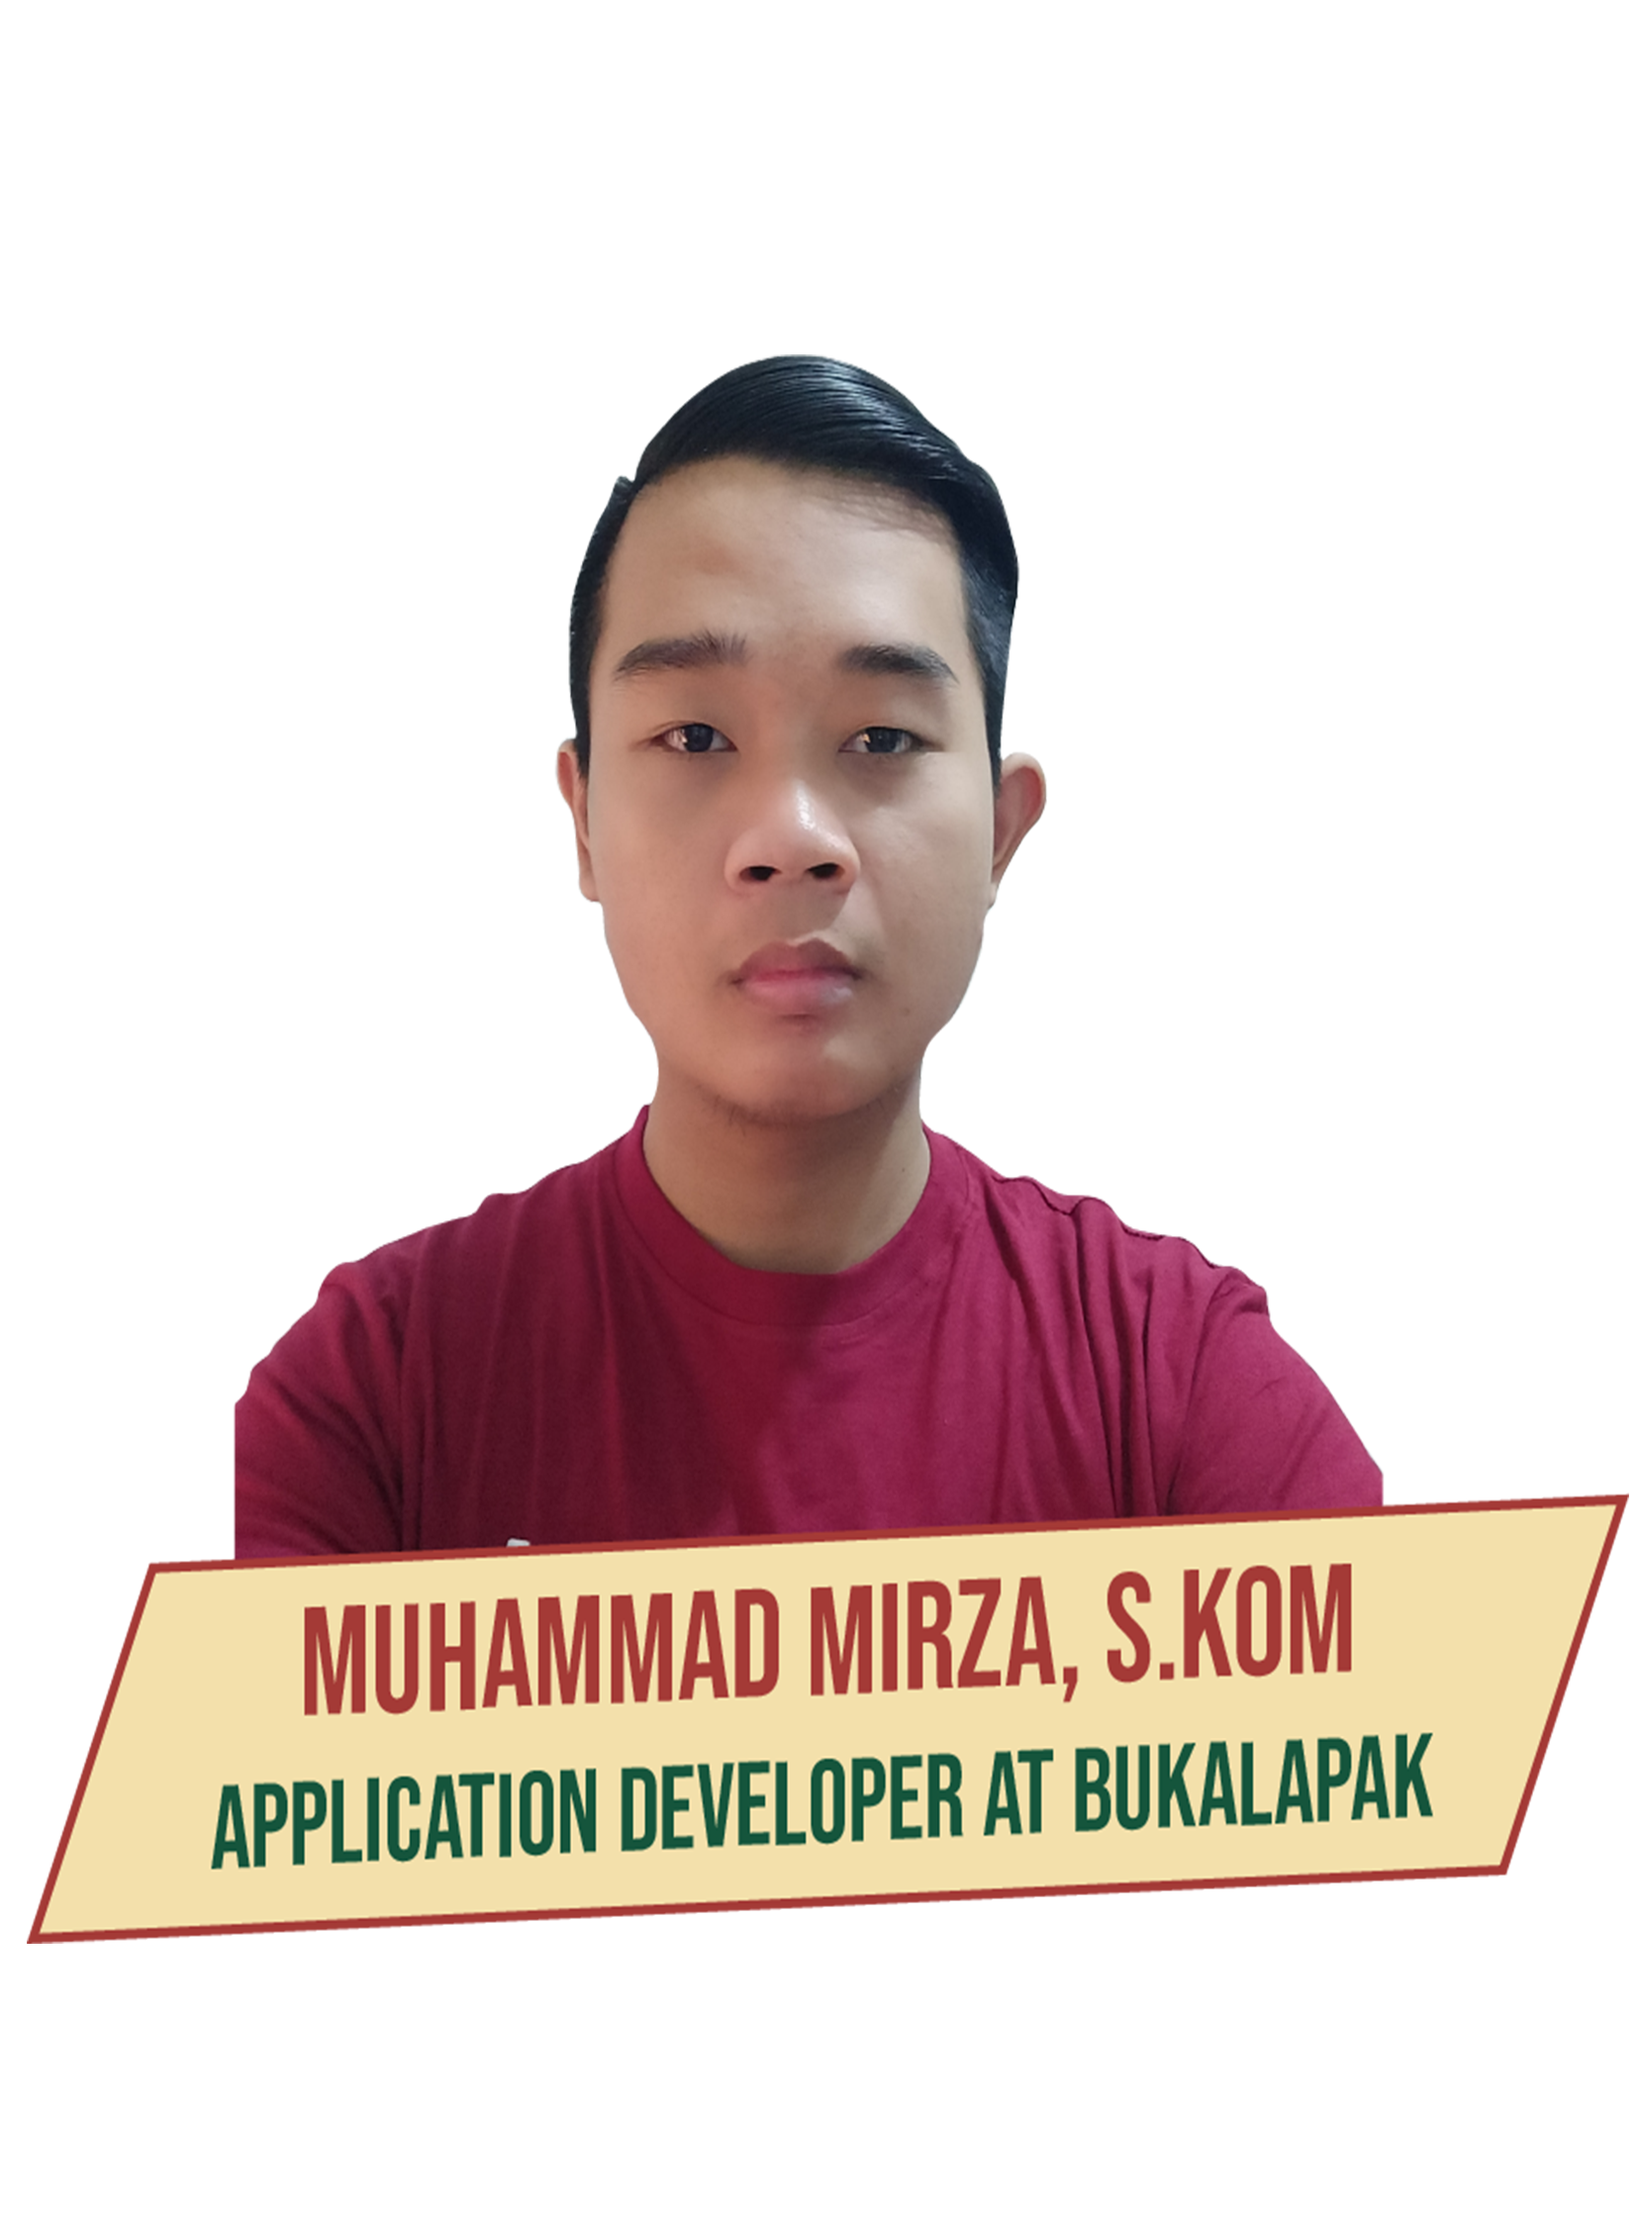
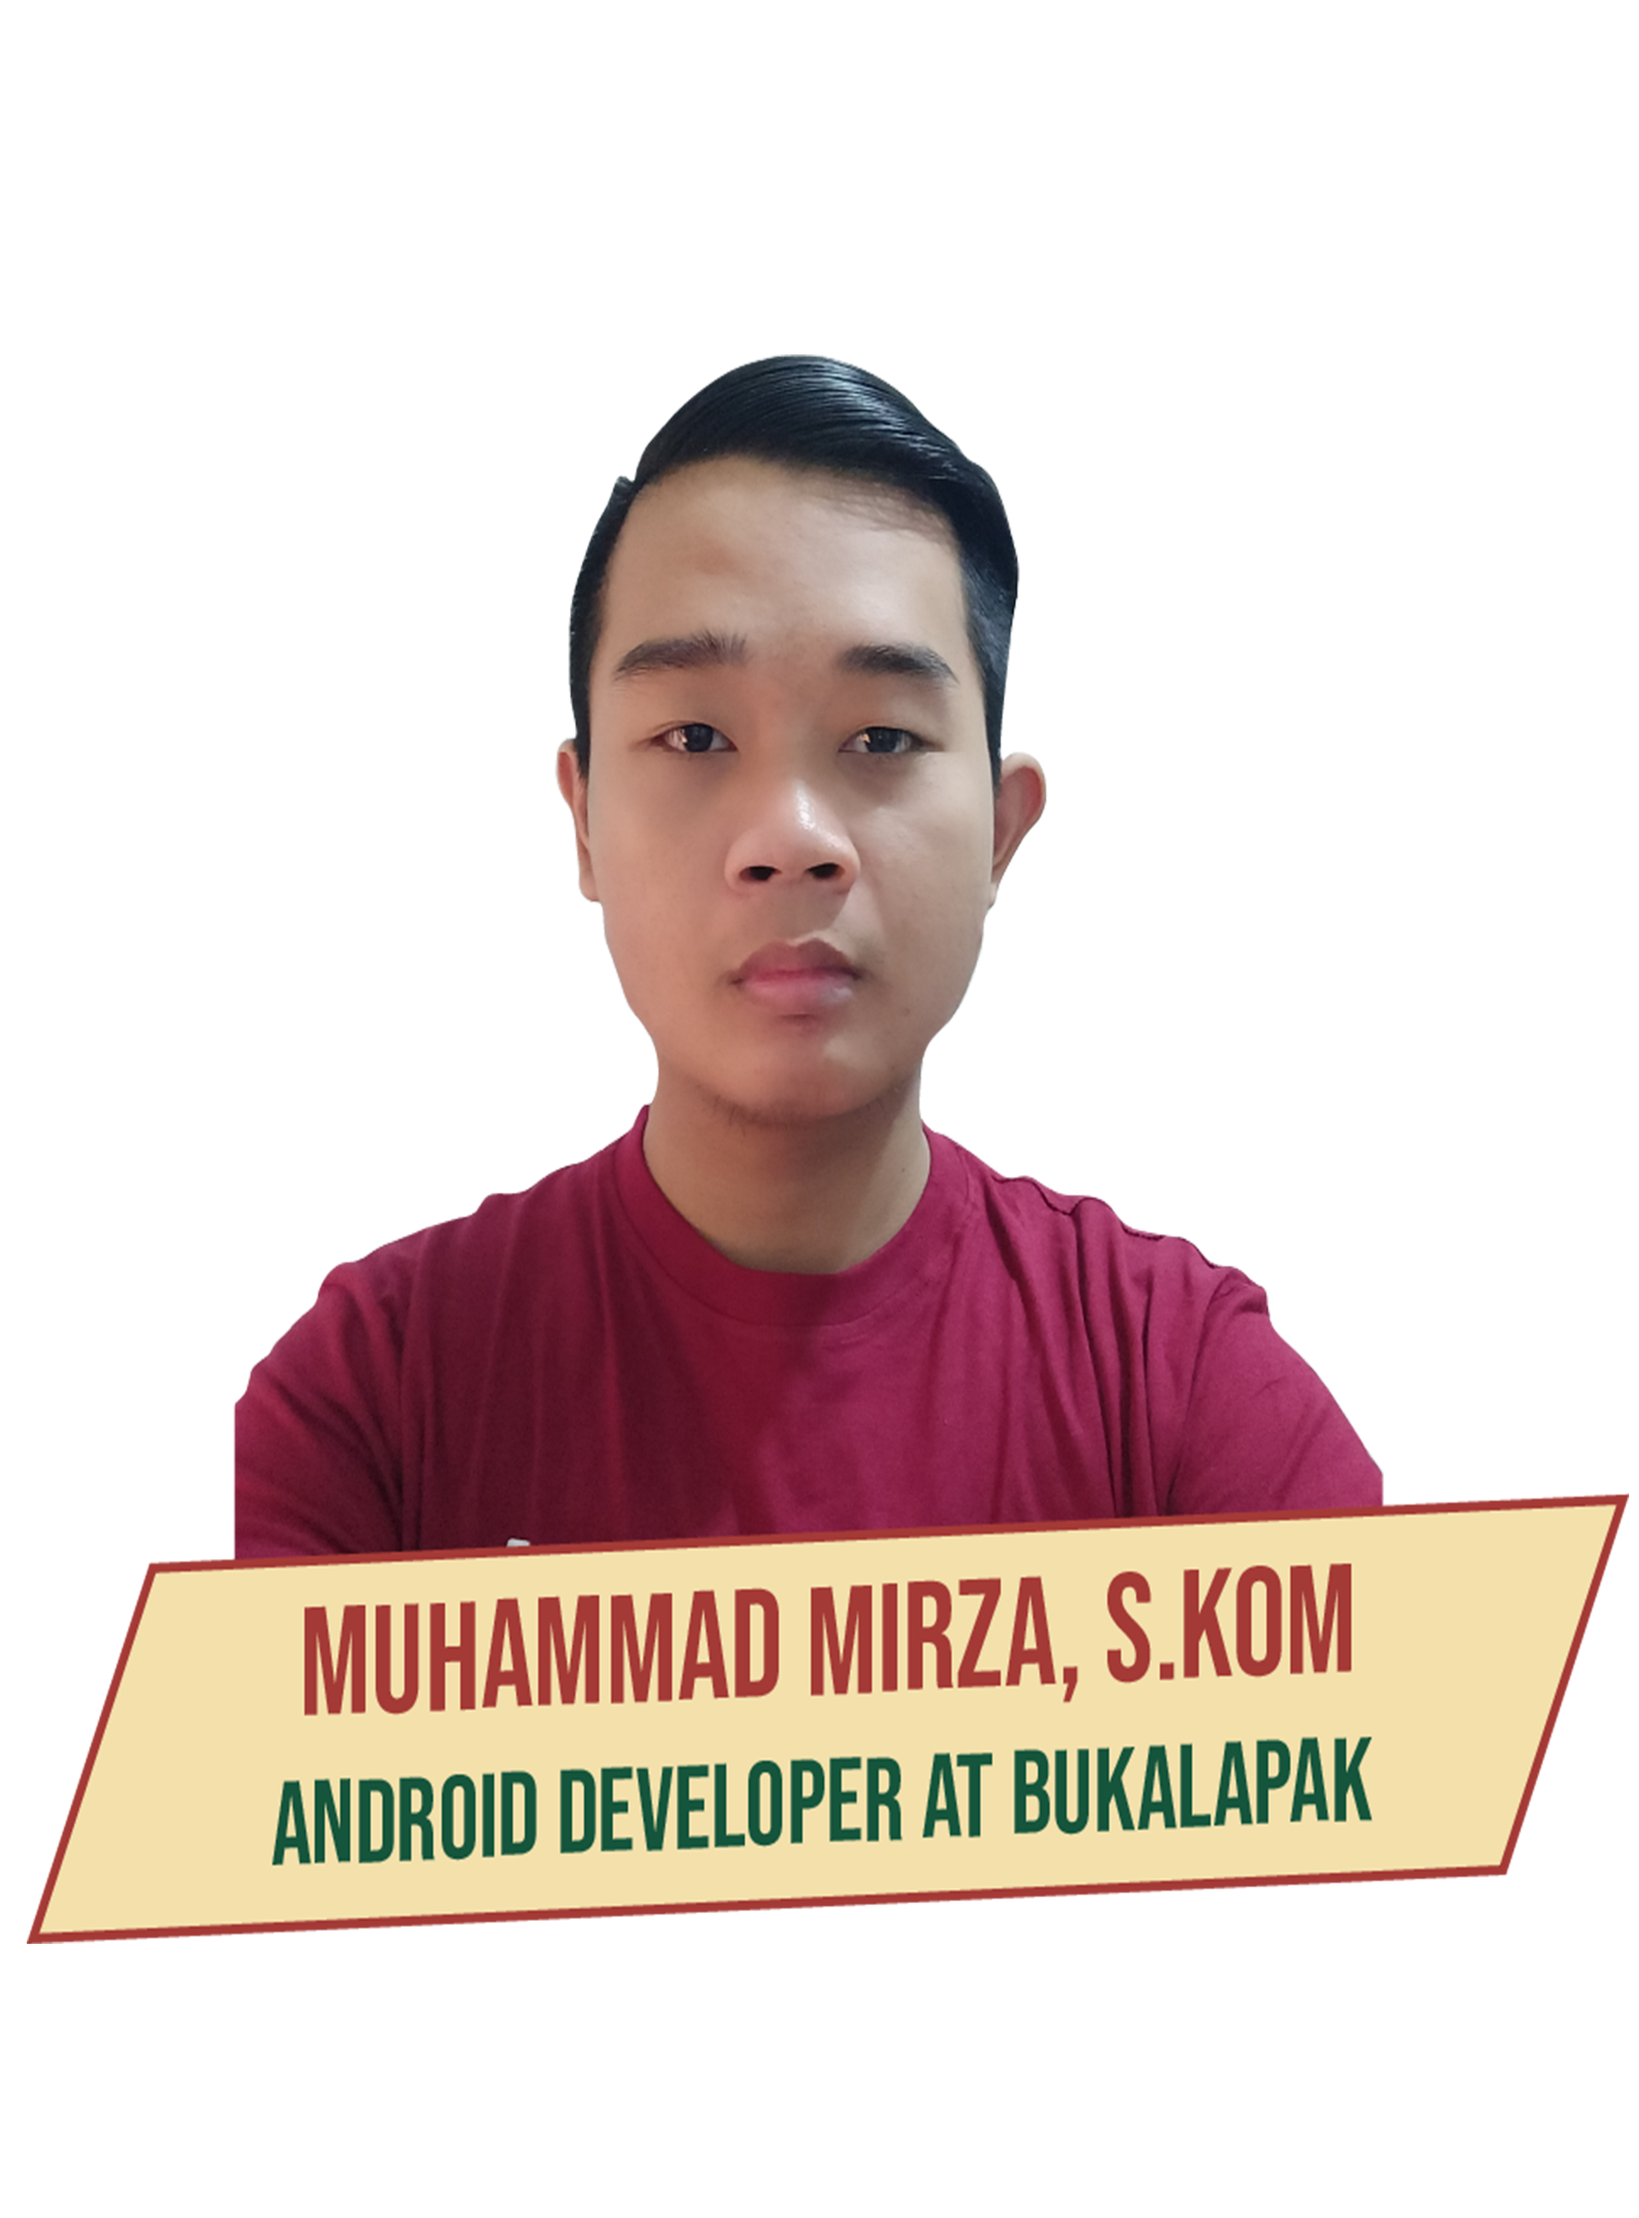
Update Jabatan dan Foto Pembicara

Changed region(s): [[0.1232, 0.7809, 0.8931, 0.8434]]

diff --git a/app/Views/index.php b/app/Views/index.php
@@ -138,7 +138,7 @@
                                     <div class="workintro" data-aos="fade-right" data-aos-offset="300" data-aos-easing="ease-in-sine">
                                         <div class="worktext text-right">
                                             <h3>MUHAMMAD MIRZA</h3>
-                                            <h6>APPLICATION DEVELOPER AT BUKALAPAK</h6>
+                                            <h6>ANDROID DEVELOPER AT BUKALAPAK</h6>
                                             <p>He is an alumnus of Dian Nuswantoro University who graduated in 2017. During his college years, he was a lab assistant from 2014 to 2015. He worked at Bukalapak as an Android Developer from 2018 until now.</p> 
                                         </div>
                                     </div>
